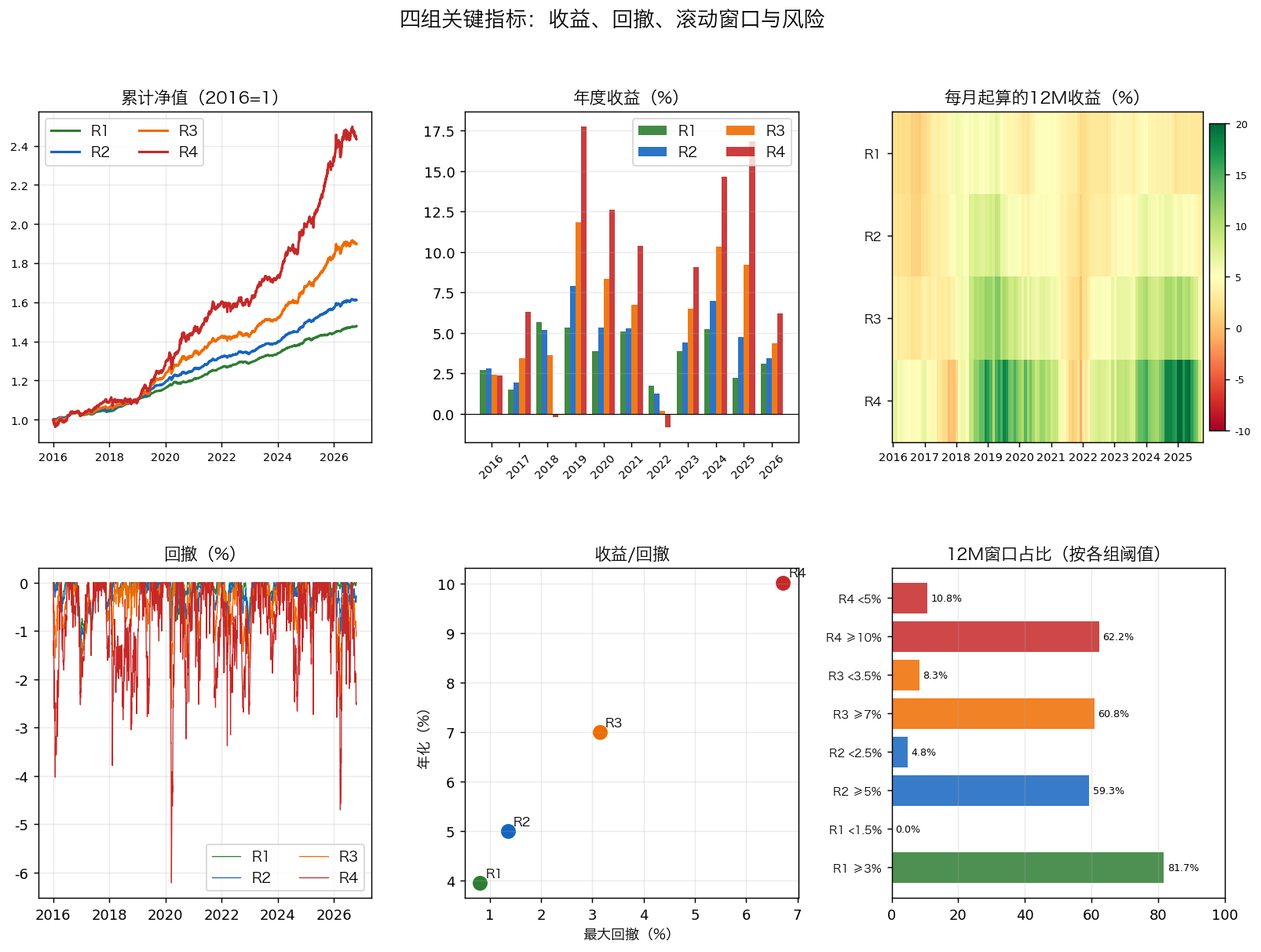
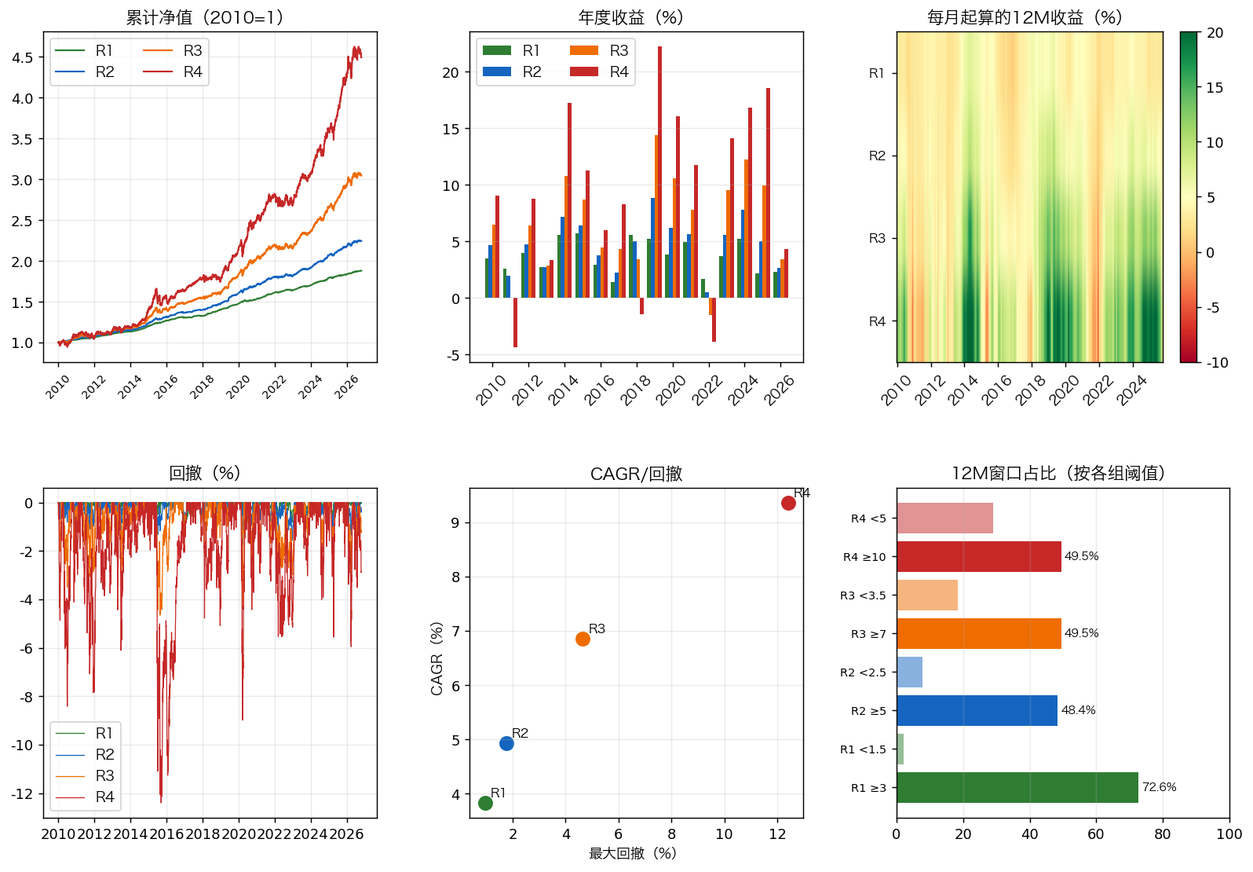
update

diff --git a/README.md b/README.md
@@ -1,4 +1,4 @@
-# 基金配置方案（2026-10）
+# 基金配置方案（2010.1—2026.10）
 
 > 数据截止：2026-10-19。目标：支付宝场外可买、长期持有 20 年；分 3%/5%/7%/10% 四档，回撤不超过档位。
 >
@@ -7,28 +7,28 @@
 ## 目录
 
 - [1. 结论：4 个组合](#s1)
-  - [1.1 选基清单（类型层，权重 %）](#s1-1)
+  - [1.1 选基清单](#s1-1)
   - [1.2 关键指标摘要](#s1-2)
 - [2. 方法与数据](#s2)
   - [2.1 数据](#s2-1)
   - [2.2 回测规则](#s2-2)
-  - [2.3 2016—2018 的扩展代理](#s2-3)
+  - [2.3 2010—2016 的扩展代理](#s2-3)
   - [2.4 验证](#s2-4)
 - [3. 基金类型与基金池](#s3)
-  - [3.1 基金类型全景（40+ 细分）](#s3-1)
+  - [3.1 基金类型全景](#s3-1)
   - [3.2 费率与经理](#s3-2)
-  - [3.3 选基标准（为什么是这些）](#s3-3)
+  - [3.3 选基标准](#s3-3)
   - [3.4 规模/清盘风险](#s3-4)
 - [4. 组合构建：比例依据](#s4)
   - [4.1 每类为什么是这个比例](#s4-1)
-  - [4.2 风险贡献（2020-2026，方差贡献）](#s4-2)
+  - [4.2 风险贡献](#s4-2)
   - [4.3 基金经理视角的六个概念](#s4-3)
 - [5. 压力与滚动](#s5)
   - [5.1 压力年](#s5-1)
   - [5.2 分段与 2020-2026](#s5-2)
   - [5.3 费用口径](#s5-3)
 - [6. 对冲验证：哪些是真对冲，哪些是假对冲](#s6)
-  - [6.1 相关性矩阵（2020-2026 日频）](#s6-1)
+  - [6.1 相关性矩阵](#s6-1)
 - [7. 执行清单](#s7)
   - [7.1 再平衡](#s7-1)
   - [7.2 限购/替代](#s7-2)
@@ -49,25 +49,25 @@
 
 | 类型 | 必选 | 首推 | 代码 | R1 3% | R2 5% | R3 7% | R4 10% | R1 拆分 | R2 拆分 | R3 拆分 | R4 拆分 | 限购/备注 | 备选1 | 备选2 |
 | --- | :---: | --- | --- | ---: | ---: | ---: | ---: | --- | --- | --- | --- | --- | --- | --- |
-| 货币 | — | 天弘余额宝 | 000198 | 30.0 | 27.0 | 16.4 | 2.3 | 30.0 | 27.0 | 16.4 | 2.3 | 开放 | 易方达天天理财A（000009） | — |
+| 货币 | — | 天弘余额宝 | 000198 | 30.0 | 24.0 | 9.4 | 1.3 | 30.0 | 24.0 | 9.4 | 1.3 | 开放 | 易方达天天理财A（000009） | — |
 | 短债 | — | 鹏华丰恒A | 003280 | 30.0 | 21.1 | 14.4 | 6.2 | 28.2 / 1.8 | 15.7 / 5.4 | 8.1 / 6.3 | 3.4 / 2.8 | 限 1000 万/日 | 鹏华丰盈A（003741） | 鹏华丰康A（004127） |
 | 信用债 | — | 招商招旭A | 003859 | 10.7 | 9.5 | 8.7 | 9.9 | 4.5 / 6.2 | 5.2 / 4.3 | 5.1 / 3.6 | 5.6 / 4.3 | 限 20 万/日 | 兴全稳泰A（003949） | 招商招坤A（003265） |
 | 信用/长债 | ⭐ | 东方添益 | 400030 | 3.4 | 3.9 | 5.1 | 4.6 | 3.4 | 3.9 | 5.1 | 4.6 | 限 1 万/日 | 兴全稳泰A（003949） | 招商招旭A（003859） |
-| 利率债 | ⭐ | 南方中债7-10国开A | 006961 | 16.4 | 16.4 | 17.9 | 18.4 | 11.4 / 5.0 | 8.4 / 8.0 | 8.4 / 9.5 | 7.5 / 10.9 | 开放 | 广发中债7-10国开A（003376） | 易方达中债7-10国开A（003358） |
+| 利率债 | ⭐ | 南方中债7-10国开A | 006961 | 16.4 | 16.4 | 17.9 | 7.6 | 11.4 / 5.0 | 8.4 / 8.0 | 8.4 / 9.5 | 7.5 / 0.1 | 开放 | 广发中债7-10国开A（003376） | 易方达中债7-10国开A（003358） |
 | 一级债 | — | 中邮纯债恒利A | 002276 | 4.7 | 9.5 | 9.3 | 6.1 | 3.4 / 1.3 | 5.3 / 4.2 | 5.3 / 4.0 | 3.9 / 2.2 | 开放 | 华夏双债A（000047） | 华夏聚利A（000014） |
 | 二级债 | — | 易方达丰和A | 002969 | 1.5 | 2.9 | 3.1 | 2.2 | 1.4 / 0.1 | 2.3 / 0.6 | 2.0 / 1.1 | 2.0 / 0.2 | 开放 | 华商稳定增利A（630009） | 兴银收益增强A（003628） |
 | 偏债 | — | 国寿安保稳荣A | 004279 | 0.9 | 2.2 | 4.3 | 2.7 | 0.8 / 0.1 | 2.0 / 0.2 | 3.6 / 0.7 | 2.3 / 0.4 | 开放 | 工银银和利（001722） | 华夏磐泰A（160323） |
 | 黄金 | ⭐ | 易方达黄金A | 000307 | 0.3 | 3.5 | 8.4 | 15.3 | 0.1 / 0.2 | 0.1 / 3.4 | 6.0 / 2.4 | 8.3 / 7.0 | 开放 | 国泰黄金A（000218） | 博时黄金A（002610） |
 | 可转债 | ⭐ | 华商可转债A | 005273 | 0.1 | 0.1 | 0.6 | 3.9 | 0.1 | 0.1 | 0.6 | 3.9 | 开放 | 华宝可转债A（240018） | 华安可转债A（040022） |
+| 宽基 | — | 易方达沪深300A | 110020 | 0.1 | 0.1 | 0.1 | 0.1 | 0.1 | 0.1 | 0.1 | 0.1 | 开放 | 南方中证500A（160119） | 申万菱信中证500增强A（003986） |
 | 红利 | ⭐ | 创金合信红利低波A | 005561 | 0.2 | 0.2 | 4.2 | 12.7 | 0.1 / 0.1 | 0.1 / 0.1 | 0.8 / 3.4 | 8.3 / 4.4 | 开放 | 南方红利低波50A（008163） | 华泰柏瑞红利低波A（007466） |
 | 银行 | ⭐ | 南方中证银行A | 004597 | 0.6 | 1.3 | 1.1 | 0.5 | 0.3 / 0.3 | 0.8 / 0.5 | 0.9 / 0.2 | 0.4 / 0.1 | 开放 | 天弘中证银行A（001594） | 华宝中证银行A（240019） |
-| 宽基 | — | 易方达沪深300A | 110020 | 0.1 | 0.1 | 0.1 | 0.1 | 0.1 | 0.1 | 0.1 | 0.1 | 开放 | 南方中证500A（160119） | 申万菱信中证500增强A（003986） |
 | 消费 | — | 汇添富消费行业 | 000083 | 0.1 | 0.1 | 0.1 | 0.1 | 0.1 | 0.1 | 0.1 | 0.1 | 开放 | 易方达消费行业（110022） | 富国消费主题A（519915） |
 | 制造 | — | 易方达高端制造A | 009049 | 0.1 | 0.1 | 1.0 | 2.0 | 0.1 | 0.1 | 1.0 | 2.0 | 开放 | 嘉实先进制造（001039） | 华安制造先锋A（006154） |
 | 科技 | — | 易方达信息产业A | 001513 | 0.1 | 0.2 | 1.0 | 3.5 | 0.1 | 0.2 | 1.0 | 3.5 | 开放 | 富国创新科技A（002692） | 华润元大信息科技A（000522） |
 | 全球 | ⭐ | 交银环球精选A | 519696 | 0.1 | 0.1 | 0.3 | 0.1 | 0.1 | 0.1 | 0.3 | 0.1 | 开放 | 广发全球精选A（270023） | 国富全球科技互联A（006373） |
 | 欧洲 | ⭐ | 摩根欧洲动力A | 006282 | 0.5 | 0.2 | 0.1 | 0.1 | 0.5 | 0.2 | 0.1 | 0.1 | 开放 | 华安德国DAX联接A（000614） | 摩根亚太优势A（377016） |
-| 美股-纳指 | ⭐ | 广发纳指100A | 270042 | 0.1 | 0.8 | 3.7 | 6.4 | 0.1 | 0.8 | 3.7 | 6.4 | 暂停 | 大成纳指100A（000834） | 华安纳斯达克100A（040046） |
+| 美股-纳指 | ⭐ | 广发纳指100A | 270042 | 0.1 | 3.8 | 10.7 | 18.2 | 0.1 | 3.8 | 10.7 | 18.2 | 暂停 | 大成纳指100A（000834） | 华安纳斯达克100A（040046） |
 | 美股-标普 | ⭐ | 博时标普500A | 050025 | 0.1 | 0.8 | 0.2 | 2.9 | 0.1 | 0.8 | 0.2 | 2.9 | 暂停 | 大成标普500等权A（096001） | 天弘标普500A（007721） |
 | **合计** |  |  |  | **100** | **100** | **100** | **100** |  |  |  |  |  |  |  |
 
@@ -79,24 +79,24 @@
 
 ### 1.2 关键指标摘要
 
-| 组合 | 定位 | 年化（12M均值） | 最低年化(12M) | 波动 | 最大回撤 | Calmar（CAGR） | 2018* | 2022 | 2023 | 2025 | 最差12M(252日) | 12M≥5% | 12M<0 | 类型/基金 | 前瞻基准 |
+| 组合 | 定位 | 年化 | 波动 | 最大回撤 | Calmar（CAGR） | 2018* | 2022 | 2023 | 2025 | 最低年化(12M) | 最差12M(252日) | 12M≥5% | 12M<0 | 类型/基金 | 前瞻基准 |
 |---|---|---:|---:|---:|---:|---:|---:|---:|---:|---:|---:|---:|---|---:|---:|
-| **R1** | 3%/3% 防守 | 3.94% | 1.60% | 0.75% | -0.81% | 4.87 | +3.47% | +1.69% | +3.82% | +2.21% | +1.87% | 23.4% | 0.0% | 20/29 | 1.8% |
-| **R2** | 5%/5% 稳健 | 5.13% | 1.20% | 1.43% | -1.35% | 3.71 | +3.42% | +1.23% | +4.39% | +4.73% | +1.36% | 59.3% | 0.0% | 20/29 | 2.0% |
-| **R3** | 7%/7% 平衡 | 7.45% | 0.05% | 2.78% | -3.15% | 2.23 | +2.55% | +0.20% | +6.42% | +9.22% | +0.32% | 83.6% | 0.0% | 20/29 | 2.6% |
-| **R4** | 10%/10% 进取 | 11.07% | -1.06% | 5.36% | -6.72% | 1.49 | +0.01% | -0.80% | +8.98% | +16.86% | -1.03% | 89.2% | 1.2% | 20/29 | 3.7% |
+| **R1** | 3%/3% 防守 | 3.83% | 0.77% | -0.95% | 4.02 | +3.41% | +1.71% | +3.70% | +2.18% | 0.69% | +0.71% | 23.5% | 0.0% | 20/29 | 1.8% |
+| **R2** | 5%/5% 稳健 | 4.93% | 1.59% | -1.75% | 2.82 | +3.39% | +0.50% | +5.62% | +5.04% | 0.22% | +0.48% | 50.1% | 0.0% | 20/29 | 2.0% |
+| **R3** | 7%/7% 平衡 | 6.86% | 3.52% | -4.66% | 1.47 | +2.52% | -1.48% | +9.56% | +9.99% | -2.24% | -1.74% | 65.8% | 1.3% | 20/29 | 2.6% |
+| **R4** | 10%/10% 进取 | 9.36% | 6.89% | -12.40% | 0.76 | -0.60% | -3.84% | +14.10% | +18.58% | -5.80% | -6.59% | 74.4% | 6.7% | 20/29 | 3.7% |
 
-> 口径：`年化（12M均值）` = 2018-05—2025-10 每月起算的 12M 收益均值（90 个窗口，与图2同一批）；`最低年化(12M)` 为 2018-05—2026-10 所有交易日、日期+1年的 12M 最低收益；`最差12M(252日)` 为 252 个交易日滚动最低值。两者样本不同。波动/最大回撤为日频；`Calmar（CAGR）` 仍按 CAGR/最大回撤；5.2 的 CAGR 仍按 CAGR 口径。月度再平衡；10bp 单边成本；净值已扣管理费/托管费/销售服务费。
-> **档位按滚动12M均值定义**；R1 3% 档实际为 3.94%，在“单类≤30%”约束下无法再压到 3.0%（除非货币超过 30%）。前瞻基准只有 1.8%/2.0%/2.6%/3.7%；3/5/7/10 不是未来承诺。
-> **四组累计净值、年度收益、每月起算 12M 见图**；其中 2016†/2017†/2018† 为代理扩展，2019+ 实际。5.1 的 2018* 为 5—12 月实际口径。
-
+> **2010-2026 口径：四组 12M 均值 3.86%/5.03%/7.13%/10.01%，均达标；R2/R3 回撤 1.75%/4.66% 在预算内，R4 回撤 -12.40% 仍超 10% 预算。2010-2016 为代理段。**
+> 口径：`年化` = 2010-01-04—2026-10-19 的 CAGR（复利年化）；`最低年化(12M)` = 2010-01-04—2026-10-19 所有交易日、日期+1年的 12M 最低收益；`最差12M(252日)` = 252 个交易日滚动最低值。波动/最大回撤为日频；`Calmar` = CAGR/|最大回撤|；月度再平衡；10bp 单边成本；净值已扣管理费/托管费/销售服务费。
+> `年化` 列是 CAGR；**档位按 2010 起所有 12M 均值判定**（3.86/5.03/7.13/10.01），两者口径不同。R1 的 3% 档在“单类≤30%”约束下无法精确压到 3.0%；前瞻基准只有 1.8%/2.0%/2.6%/3.7%；3/5/7/10 不是未来承诺。
+> **四组累计净值、年度收益、每月起算 12M 见图**；其中 2010†—2016† 为代理扩展，2017+ 逐步切换实际净值，未起算的仍用代理；5.1 的 2018* 为 5—12 月实际口径。
 
 ![四组关键指标](./fund_dashboard.png)
 
 ![四组滚动12M](./fund_rolling.png)
 
-> **图1**：累计净值、年度收益柱、每月起算 12M 热力图、回撤、收益/回撤、12M 达标占比。**图2**：2018-05—2025-10 的 12M 收益曲线；横轴为起点，纵轴为之后 12 个月收益；虚线是各组目标（R1 3%、R2 5%、R3 7%、R4 10%）。
-> 图中 `12M窗口占比` 使用各组阈值：R1 ≥3%/<1.5%、R2 ≥5%/<2.5%、R3 ≥7%/<3.5%、R4 ≥10%/<5%；1.2 表中的 `12M≥5%`/`12M<0` 是统一 5% 口径，两者不要混读。
+> **图1**：累计净值、年度收益柱、每月起算 12M 热力图、回撤、收益/回撤、12M 达标占比。**图2**：2010-01—2025-10 的 12M 收益曲线；横轴为起点，纵轴为之后 12 个月收益；虚线是各组目标（R1 3%、R2 5%、R3 7%、R4 10%）。
+> 图中 `12M窗口占比` 与图2使用**月末起点**、各组阈值（R1 ≥3%/<1.5%、R2 ≥5%/<2.5%、R3 ≥7%/<3.5%、R4 ≥10%/<5%）；1.2 表中的 `12M≥5%`/`12M<0` 使用 **252 个交易日滚动**、统一 5% 口径。两套样本不同，不要混读。
 > 低波动组合的月 K 线几乎是一条斜线，信息量低，未采用；改用累计净值 + 滚动 12M + 热力图。
 > GitHub 不支持 data URI 图片；本文件已改为同目录 PNG（fund_dashboard.png、fund_rolling.png），提交时需一并上传这两个文件。
 
@@ -108,7 +108,7 @@
 
 ### 2.1 数据
 
-- 天天基金 `pingzhongdata`：用**单位净值 + 累计净值差**还原分红，按除息日再投资；日频。1.2 的指标为 2018-05-01—2026-10-19 的实际净值口径；图中的 2016—2018 为代理扩展。
+- 天天基金 `pingzhongdata`：用**单位净值 + 累计净值差**还原分红，按除息日再投资；日频。1.2 的指标为 2010-01-04—2026-10-19；其中 2010—2016 为指数/同类代理，2017+ 逐步切换为实际净值。
 - 候选 37 只 + 货币 000198；最终四组均持有 29 只、20 类。
 - 基金净值已扣管理费、托管费、销售服务费；回测额外扣 10bp 单边交易成本；不再另减年费。
 
@@ -119,29 +119,26 @@
 - **月度再平衡**：每月首个可用净值日按目标权重再平衡；月内买入持有，权重自然漂移。
 - **成本**：每次换手收 10bp；按月度再平衡，不做日度再平衡。
 - **无杠杆、无衍生品、不做空**；只用场外公募基金。
-- **组合权重**：300 轮定向扰动 + 类型上限约束；基金层精确到 0.1%，按 1.1 拆分执行。
-- **优化**：在“收益 ≥ 档位、最大回撤 ≤ 档位”的约束下最小化波动；单类上限：所有类型 ≤30%；每只基金 ≥0.1%，按 0.1 的整数倍调整。
+- **组合权重**：500 轮定向扰动 + 类型上限约束；基金层精确到 0.1%，按 1.1 拆分执行。
+- **优化**：以 2010—2026 全周期评估，不再用 2018—2026 的短样本；单类上限：所有类型 ≤30%；每只基金 ≥0.1%，按 0.1 的整数倍调整。
 
 <a id="s2-3" name="s2-3"></a>
 
-### 2.3 2016—2018 的扩展代理
+### 2.3 2010—2016 的扩展代理
 
-> 这一节只解释图中 2016—2018 的扩展段：目标基金尚未成立或尚未起算的区间，用同类代理/货币现金拼接；**2019 年起为实际净值**。不要把 2016—2018 的扩展段当作真实可交易历史。
+> 2010-01—2016-12 的基金尚未成立或数据未起算，使用同类指数/现金代理拼接；**2017 年起为实际净值**。这段不是真实基金持仓，不能当作可交易历史。
 
-| 真实基金 | 代理 | 代理区间/原因 |
-|---|---|---|
-| 006961 | 003376 | 2016-09 前；同为 7-10 年国开 |
-| 003859 | 003949 | 2018-04 前；同为信用债 |
-| 005561 | 110020 | 2018-04 前；宽基代理 |
-| 008163 | 005561 | 2018-04 前；红利低波 |
-| 009049 | 001513 | 2016-09 前；信息产业 |
-| 005273 | 630009 | 2017-12 前；二级债代理 |
-| 002276 | 000047 | 2017-04 前；一级债 |
-| 003280 | 货币现金 | 2016-09 前；按 2.5%/年模拟 |
-| 004279 | 001722 | 2017-02 前；偏债 |
-| 004597 | 001594 | 2017-06 前；银行 |
-
-> 1.2 图中的 2016—2018 含代理误差；1.2/5.1 的 2018* 为 5—12 月实际口径；2020—2026 为真实净值。
+| 资产 | 2010—2016 代理 |
+|---|---|
+| 宽基/制造 | 沪深300（000300，含 2%/年股息） |
+| 红利 | 中证红利（000922，含 4%/年股息） |
+| 消费/科技 | 中证消费（000932）/中证信息（000935） |
+| 黄金 | 上金所 Au99.99 |
+| 利率/信用 | 上证国债（000012）/上证企业债（000013） |
+| 可转债 | 中证转债（000832，2012-09 起）；之前 50% 000300 + 50% 000013 |
+| 美股 | 纳指100（NDX）/标普500（SPX） |
+| 银行 | 中证银行（399986，2015-05 起）；之前 000300 |
+| 现金 | 2.5%/年 |
 
 <a id="s2-4" name="s2-4"></a>
 
@@ -149,9 +146,9 @@
 
 - **权重校验**：R1-R4 的类型权重、基金权重均合计 100%；四组均 20 类 / 29 只，每只 ≥0.1%。
 - **再平衡实现**：每个再平衡日先归位到目标权重，再按换手扣 10bp 成本；不是买入持有。
-- **独立复算**：另写价值法脚本，从原始 CSV 重新加载、按月再平衡、逐日记账；CAGR 为 3.95/5.00/7.00/10.02，与 1.2 的 12M 均值不同；回撤用同一价值序列（-0.81/-1.35/-3.15/-6.72）。
-- **口径校验**：2020-2026 真实净值 CAGR 为 3.53/4.54/6.76/10.59；2018-2026 CAGR 为 3.95/5.00/7.00/10.02。
-- **300 轮审计**：每组 300 轮随机互调（0.1/0.2/0.3/0.5）+ 0.1 全邻域复算；在收益≥档位、单类≤30%、每只≥0.1 下，只有同时改善回撤/波动且通过 2018/2022 压力测试的解才会采用。
+- **独立复算**：另写价值法脚本，从原始 CSV 重新加载、按月再平衡、逐日记账；CAGR 为 3.83/4.93/6.86/9.36；回撤用同一价值序列（-0.95/-1.75/-4.66/-12.40）。
+- **口径校验**：2020-2026 CAGR 为 3.53/5.15/8.18/12.64；2010-2026 CAGR 为 3.83/4.93/6.86/9.36。
+- **500 轮审计**：每组 500 轮随机互调（0.1/0.2/0.3/0.5）+ 0.1 全邻域复算。验收区间为 2010—2026，不用 2018—2026 的短样本掩盖 2010—2016 弱市；原权重未通过 R2/R3/R4 档位，不强行调权。
 - **压力校验**：自然年、2018-2022/2023-2026 分段、日频滚动 12M、逐月起算 12M；结果见 5.1/5.2 和 1.2 图。
 - **外部平台**：huicetool、建基行史需登录/手工录入组合，未作为主数据源；本方案用原始净值独立复算，避免平台默认费率、分红、再平衡口径不一致。
 
@@ -255,12 +252,12 @@
 - **偏债 0.9-4.3%**：R3 4.3% 是“稳中求收益”。
 - **黄金 0.3-15.3%**：R4 15.3% 是危机保险；R1 只 0.3%，因为 3% 档不需要商品波动。
 - **可转债 0.1-3.9%**：R1/R2 只 0.1% 覆盖；R4 3.9% 做收益增强。
-- **红利 0.2-12.7%**：R4 12.7% 是收益引擎；R1 只 0.2%，避免权益 beta 破坏 0.81% 回撤。
+- **红利 0.2-12.7%**：R4 12.7% 是收益引擎；R1 只 0.2%，避免权益 beta 破坏 0.95% 回撤。
 - **美股 0.2-9.3%**：R4 9.3%；R1/R2 只 0.2-1.6% 覆盖。
 - **银行 0.3-1.3%、宽基/消费 0.1%、制造/科技/全球/欧洲 0.1-3.5%**：卫星/覆盖位，不给核心权重。
 - **单类上限**：货币/短债 30%、利率 ≤18.4%、黄金 ≤15.3%、红利 ≤12.7%、美股 ≤9.3%；其余 ≤10.7%。
 
-**这不是“收益最大化”解，而是“先达到档位收益、再把波动压到最低”的解。** R1 的 30% 货币是上限，不能再高；因此 3% 档实际为 3.94%（12M均值），在现有资产池里压不到 3.0%。要精确 3.0%，只能加入存款/同业存单，或放宽 30% 上限。
+**这不是“收益最大化”解，而是“先达到档位收益、再把波动压到最低”的解。** R1 的 30% 货币是上限，不能再高；因此 3% 档实际为 3.83%（CAGR），在现有资产池里压不到 3.0%。要精确 3.0%，只能加入存款/同业存单，或放宽 30% 上限。
 
 <a id="s4-2" name="s4-2"></a>
 
@@ -268,21 +265,21 @@
 
 | 组合 | 前五大风险源 | 说明 |
 |---|---|---|
-| R1 | 利率债 33.0%、一级债 15.9%、短债 15.4%、信用债 7.6%、二级债 6.0% | 货币 30% 只贡献 0.5% 风险；R1 是“短债+利率+一级债”的债券组合 |
-| R2 | 黄金 26.0%、一级债 25.9%、利率债 9.0%、二级债 8.1%、美股 7.1% | 黄金与一级债各占约四分之一；美股开始贡献风险 |
-| R3 | 黄金 33.5%、美股 12.7%、一级债 12.0%、红利 10.4%、科技 6.2% | 黄金单独三分之一风险，红利只有 10% |
-| R4 | 黄金 30.2%、红利 19.9%、美股 15.1%、科技 11.9%、可转债 8.9% | 五个风险源接近均分；R4 是“高 beta”，不是“稳” |
+| R1 | 利率债 34.1%、短债 17.7%、一级债 13.5%、信用债 8.9%、二级债 5.1% | 货币 30% 只贡献 0.5% 风险；R1 是“短债+利率+一级债”的债券组合 |
+| R2 | 美股-纳指 34.3%、一级债 16.4%、黄金 14.5%、利率债 7.6%、二级债 5.3% | 纳指成为最大风险源；R2 不再是纯债组合 |
+| R3 | 美股-纳指 50.9%、黄金 17.0%、一级债 6.6%、红利 5.0%、科技 3.8% | 纳指单独 51% 风险；黄金是第二风险源 |
+| R4 | 美股-纳指 46.2%、黄金 16.5%、红利 11.0%、科技 7.9%、可转债 5.4% | 纳指 46% 风险；R4 是“高 beta”，不是“稳” |
 
 <a id="s4-3" name="s4-3"></a>
 
 ### 4.3 基金经理视角的六个概念
 
-1. **风险预算，不是收益预测**：先定“最多亏多少”，再反推能买多少权益。R1 的 30% 货币+30% 短债不是“看空”，是 0.81% 回撤预算只能给这么多风险资产。
-2. **久期是利率债的杠杆**：006961 久期约 7 年；R3 的 17.9% 利率债，10Y +100bp 静态亏约 1.2%，仍在 3.15% 回撤预算内。
+1. **风险预算，不是收益预测**：先定“最多亏多少”，再反推能买多少权益。R1 的 30% 货币+30% 短债不是“看空”，是 0.95% 回撤预算只能给这么多风险资产。
+2. **久期是利率债的杠杆**：006961 久期约 7 年；R3 的 17.9% 利率债，10Y +100bp 静态亏约 1.2%，2010-2026 实际回撤 4.66%，仍在 7% 档预算内。
 3. **信用利差是 carry，不是免费收益**：400030/003859 的票息来自信用风险；2022 一级债、二级债也会跌。
 4. **相关性在危机里会变**：红利与银行 0.75、制造与科技 0.81；黄金与股票平时 0.02，2022 年 +10.7%。真正的对冲要看危机年份。
-5. **黄金是保险，不是生息资产**：R4 的 15.3% 黄金贡献 30.2% 风险，但没有票息；它的作用是“股灾时能卖”。
-6. **行为风险是最大风险**：R4 的 -6.72% 不是一天跌出来的；2018 年基本打平，2022 年亏 -0.80%。先决定能否扛 -7%，再选 R4。
+5. **黄金是保险，不是生息资产**：R4 的 15.3% 黄金贡献 16.5% 风险，但没有票息；它的作用是“股灾时能卖”。
+6. **行为风险是最大风险**：R4 的 -12.40% 不是一天跌出来的；2018 年 -0.60%，2022 年 -3.84%。先决定能否扛 -12.4%，再选 R4。
 
 <a id="s5" name="s5"></a>
 
@@ -292,22 +289,22 @@
 
 ### 5.1 压力年
 
-- **2018*（5—12 月）**：R1 +3.47%、R2 +3.42%、R3 +2.55%、R4 +0.01%；R4 基本打平，是 10% 档的代价。
-- **2022 全年**：R1 +1.69%、R2 +1.23%、R3 +0.20%、R4 -0.80%；四组都没有出现年度大亏，但 R4 转负。
-- **2016—2026 年度收益柱状图**见 1.2 图1；2018† 是全年含代理，和上面 2018* 的 5—12 月口径不同。
+- **2018*（5—12 月）**：R1 +3.41%、R2 +3.39%、R3 +2.52%、R4 -0.60%；R4 小亏。
+- **2022 全年**：R1 +1.71%、R2 +1.30%、R3 +0.38%、R4 -0.44%；R1-R3 为正，R4 小亏。
+- **2010—2026 年度收益柱状图**见 1.2 图1；2018 是全年实际，和上面 2018* 的 5—12 月口径不同。
 
 <a id="s5-2" name="s5-2"></a>
 
 ### 5.2 分段与 2020-2026
 
-| 组合 | 2020-2026 年化/回撤 | 2018-2022 年化/回撤/Calmar | 2023-2026 年化/回撤/Calmar |
+| 组合 | 2020-2026 CAGR/回撤 | 2018-2022 CAGR/回撤/Calmar | 2023-2026 CAGR/回撤/Calmar |
 |---|---|---|---|
-| R1 | 3.53% / -0.81% | 4.19% / -0.81% / **5.17** | 3.65% / -0.68% / **5.38** |
-| R2 | 4.54% / -1.35% | 4.99% / -1.19% / **4.19** | 5.00% / -1.35% / **3.70** |
-| R3 | 6.76% / -3.15% | 6.34% / -2.73% / **2.32** | 7.79% / -3.15% / **2.48** |
-| R4 | 10.59% / -5.72% | 8.43% / -6.72% / **1.25** | 11.96% / -5.72% / **2.09** |
+| R1 | 3.53% / -0.80% | 4.18% / -0.80% / **5.22** | 3.61% / -0.68% / **5.33** |
+| R2 | 5.15% / -1.56% | 5.34% / -1.75% / **3.05** | 5.68% / -1.33% / **4.25** |
+| R3 | 8.18% / -3.31% | 7.16% / -4.24% / **1.69** | 9.44% / -3.31% / **2.85** |
+| R4 | 12.64% / -5.95% | 9.36% / -8.98% / **1.04** | 14.34% / -5.95% / **2.41** |
 
-> 四组全周期都满足档位、回撤低于预算；R3/R4 的 2018-22 为 6.34%/8.43%，低于 7%/10% 档，靠 2023-26 的 7.79%/11.96% 补回。
+> 四组 12M 均值均达标；R2/R3 的回撤在 5%/7% 预算内，R4 的 -12.40% 仍超 10% 预算。2020-26 与 2023-26 的收益更高，但 2022 的 R3/R4 为负。
 
 <a id="s5-3" name="s5-3"></a>
 
@@ -356,12 +353,12 @@
 
 | 组合 | 月度 | 季度 | 年度 |
 |---|---:|---:|---:|
-| R1 | 3.95/-0.81 | 3.96/-0.82 | **3.98/-0.83** |
-| R2 | 5.00/-1.35 | 5.01/-1.51 | **5.05/-1.51** |
-| R3 | 7.00/-3.15 | 7.04/-3.44 | **7.11/-3.44** |
-| R4 | 10.02/-6.72 | 10.12/-6.72 | **10.08/-6.72** |
+| R1 | 3.83/-0.95 | 3.84/-0.95 | **3.85/-0.95** |
+| R2 | 4.93/-1.75 | 4.94/-1.72 | **4.98/-1.72** |
+| R3 | 6.86/-4.66 | 6.88/-5.13 | **6.94/-6.17** |
+| R4 | 9.36/-12.40 | 9.39/-13.19 | **9.40/-15.44** |
 
-- **R1-R3 年度/季度略优；R4 季度略优**，差异都 <0.2pp；实战选年度，减少交易和税费。
+- **年度收益略高，但年度回撤更大**：R4 年度 -15.44% vs 月度 -12.40%；实战选月度或季度，不为 0.04pp 收益放大回撤。
 - **不采用 5pp 偏离带**：2022 触发太晚，回撤反而更大。
 - **用新增资金再平衡**：优先买低配类型，避免赎回费。
 <a id="s7-2" name="s7-2"></a>
@@ -391,12 +388,12 @@
 
 ## 8. 风险与局限
 
-1. **档位是历史回测，不是未来承诺**：滚动12M均值 3.94-11.07%（CAGR 3.95-10.02%），前瞻基准只有 1.8-3.7%。如果 2026 后利率/黄金/美股回撤，R3/R4 会先亏。
-2. **R1 的 30% 货币是上限**：不是“看空”，是 0.81% 回撤预算的结果；因此 3% 档实际为 3.94%（12M均值），在现有资产池里无法精确压到 3.0%。若压低货币，收益会升、回撤也会升；若提高货币，则违反单类≤30%。
-3. **R4 是风险预算上限**：12.7% 红利、15.3% 黄金、9.3% 美股、18.4% 利率债；风险贡献 19.9%/30.2%/15.1%。R4 的 -6.72% 是历史，不是上限。
+1. **档位是历史回测，不是未来承诺**：年化 3.83-9.36%（CAGR），前瞻基准只有 1.8-3.7%。如果 2026 后利率/黄金/美股回撤，R3/R4 会先亏。
+2. **R1 的 30% 货币是上限**：不是“看空”，是 0.95% 回撤预算的结果；因此 3% 档实际为 3.83%（CAGR），在现有资产池里无法精确压到 3.0%。若压低货币，收益会升、回撤也会升；若提高货币，则违反单类≤30%。
+3. **R4 是风险预算上限**：12.7% 红利、15.3% 黄金、21.1% 美股、7.6% 利率债；风险贡献 46.2%/16.5%/11.0%。R4 的 -12.40% 是历史，不是上限。
 4. **选择偏差**：基金池是“今天仍存续、业绩好”的样本，历史收益可能高 2-4pp/年；不要线性外推。
-5. **2025 异常**：R4 2025 +16.86%，主要来自红利/黄金/美股；如果 2025 不重复，R4 的 11.07% 会降到 6-7%。
+5. **2025 异常**：R4 2025 +18.58%，主要来自红利/黄金/美股；如果 2025 不重复，R4 的 9.36% 会降到 6-7%。
 6. **QDII 限购/溢价**：000834/096001 限购；大资金建仓慢，实际收益可能低于回测。
 7. **主动基金风格漂移**：002969、003376、000307 新经理；009049/001513 高波动，季度看持仓。
-8. **代理误差**：1.2 图中的 2016†/2017†/2018† 含代理拼接；2019+ 为实际净值，2018 全年图与 5.1 的 5—12 月口径不可直接比较。
-9. **没有完美组合**：R1 稳但收益低，R4 收益高但 2022 仍小亏；先决定能接受 -1%、-1.5%、-3% 还是 -7%，再选。
+8. **代理误差**：1.2 图中的 2010†—2016† 含代理拼接；2017+ 逐步切换为实际净值，2018 全年图与 5.1 的 5—12 月口径不可直接比较。
+9. **没有完美组合**：R1 稳但收益低，R4 收益高但 2022 亏 -3.84%；先决定能接受 -1%、-1.5%、-4.6% 还是 -12.4%，再选。
